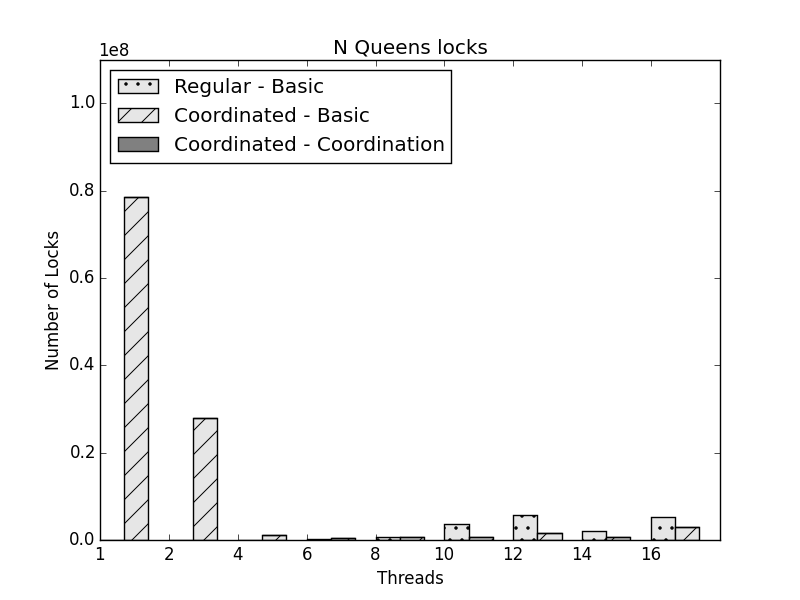
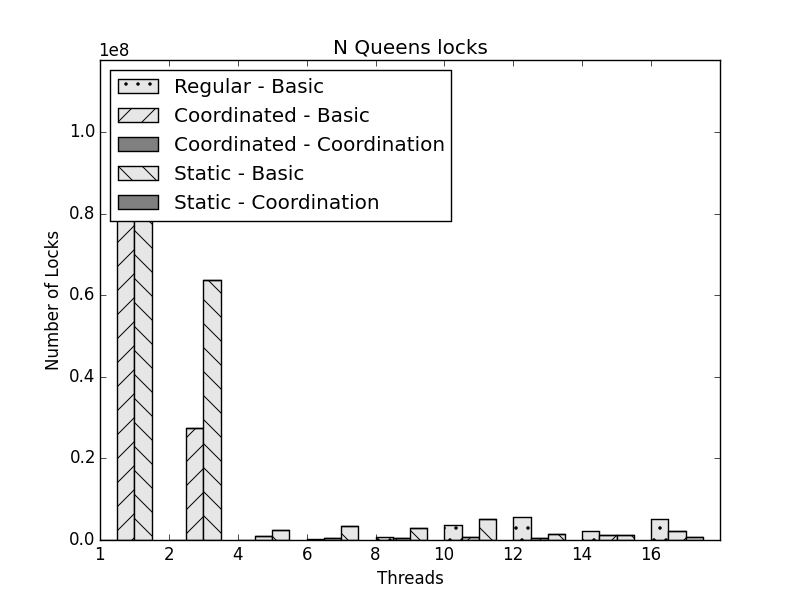
Add N Queens Static to queue table.

diff --git a/language.tex b/language.tex
@@ -16,6 +16,44 @@ Next, the rules are recursively applied and the database is updated by adding
 new facts or deleting facts used during rule derivation.
 When no more rules are applicable, the program terminates.
 
+CLM has been designed for writing programs that operate on graphs. CLM partitions
+the database by using the first argument of each fact. The first argument has
+type \emph{node} and represents a node in the graph. To achieve concurrency,
+our implementation partitions the database by the first argument, e.g.,
+the fact \texttt{f(@1, 2)} is stored in node \texttt{@1}, while
+fact \texttt{p(@2)} is stored in node \texttt{@2}. CLM restricts the body of
+every rule to facts with the same node so that nodes can derive rules
+independently. Although the body is restricted, the head of the rule may refer
+to any node as long as that node is refered to somewhere in the body. This allows
+\scare{communication} between nodes during rule derivation, since a node may
+\scare{send} a fact to another node.  Rule restrictions in turn make CLM
+implicitly parallel because nodes are able to compute independently. This makes
+CLM non-deterministic since nodes can be picked to run in any order, affecting
+which rules are applied and which facts are deleted or derived.
+
+\paragraph{SSSP Example}
+To make these ideas concrete, we present a simple
+program: the single source shortest path program~(SSSP). Later in the paper, we
+add coordination facts to improve the execution of the program.
+
+The SSSP program in Fig.~\ref{code:shortest_path_program} starts (lines 1-3)
+with the declaration of the predicates. Predicates specify the facts
+used in the program. The first predicate, \texttt{edge}, is a persistent
+predicate that describes the relationship between the nodes of the graph,
+where the third argument represents the weight of the edge (the
+\texttt{route} modifier informs the compiler that the \texttt{edge} predicate
+determines the structure of the graph).
+The predicates \texttt{shortest} and \texttt{relax} are
+specified as linear facts and thus are deleted when deriving new facts.  The
+algorithm computes the shortest distance from node
+\texttt{@1} to all other nodes in the graph. Every node has a
+\texttt{shortest} fact that is improved with new \texttt{relax} facts.  Lines
+5-9 declare the axioms of the program: \texttt{edge} facts describe the
+graph; \texttt{shortest(A, +00, [])} is the initial shortest distance
+(infinity) for all nodes; and \texttt{relax(@1, 0, [@1])} starts the
+algorithm by setting the initial distance from \texttt{@1} to \texttt{@1} to be
+0.
+
 \begin{topfig}
 \scriptsize\begin{Verbatim}[numbers=left]
 type route edge(node, node, int).
@@ -54,42 +92,6 @@ shortest(A, D1, P1), D1 <= D2, relax(A, D2, P2)
    have been computed.}
 \end{dblfig}
 
-CLM has been designed for writing programs that operate on graphs. CLM partitions
-the database by using the first argument of each fact. The first argument has
-type \emph{node} and represents a node in the graph. To achieve concurrency,
-our implementation partitions the database by the first argument, e.g.,
-the fact \texttt{f(@1, 2)} is stored in node \texttt{@1}, while
-fact \texttt{p(@2)} is stored in node \texttt{@2}. CLM restricts the body of
-every rule to facts with the same node so that nodes can derive rules
-independently. Although the body is restricted, the head of the rule may refer
-to any node as long as that node is refered to somewhere in the body. This allows
-\scare{communication} between nodes during rule derivation, since a node may
-\scare{send} a fact to another node.  Rule restrictions in turn make CLM
-implicitly parallel because nodes are able to compute independently. This makes
-CLM non-deterministic since nodes can be picked to run in any order, affecting
-which rules are applied and which facts are deleted or derived.
-
-To make these ideas concrete, we present a simple
-program: the single source shortest path program~(SSSP). Later in the paper, we
-add coordination facts to improve the execution of the program.
-
-The SSSP program in Fig.~\ref{code:shortest_path_program} starts (lines 1-3)
-with the declaration of the predicates. Predicates specify the facts
-used in the program. The first predicate, \texttt{edge}, is a persistent
-predicate that describes the relationship between the nodes of the graph,
-where the third argument represents the weight of the edge (the
-\texttt{route} modifier informs the compiler that the \texttt{edge} predicate
-determines the structure of the graph).
-The predicates \texttt{shortest} and \texttt{relax} are
-specified as linear facts and thus are deleted when deriving new facts.  The
-algorithm computes the shortest distance from node
-\texttt{@1} to all other nodes in the graph. Every node has a
-\texttt{shortest} fact that is improved with new \texttt{relax} facts.  Lines
-5-9 declare the axioms of the program: \texttt{edge} facts describe the
-graph; \texttt{shortest(A, +00, [])} is the initial shortest distance
-(infinity) for all nodes; and \texttt{relax(@1, 0, [@1])} starts the
-algorithm by setting the initial distance from \texttt{@1} to \texttt{@1} to be
-0.
 
 The first rule of the program (lines 11-14) reads as following: if the current
 \texttt{shortest} path \texttt{P1} with distance \texttt{D1} is larger

diff --git a/locks.tex b/locks.tex
@@ -116,7 +116,9 @@ MiniMax - Regular & 16M & 19M & 19M & 19M & 20M \\ \hline
 MiniMax - Coordinated & 51M & 51M & 51M & 51M & 52M \\ \hline
 \hline
 N Queens - Regular & 8K & 15K & 16K & 17K & 20K \\ \hline
-N Queens - Coordinated & 57M & 18M & 676K & 125K & 41K \\ \hline
+N Queens - Coordinated & 57M & 24M & 675K & 145K & 46K \\ \hline
+N Queens - Static & 57M & 44M & 1M & 1M & 151K \\ \hline
+\hline
 \end{tabular}
 \scap{queue_instructions}{Number of queue \scare{instructions} per program. An
    operation to a regular queue counts as 1 instruction, while an operation to

diff --git a/results/locks/queue_operations.py b/results/locks/queue_operations.py
@@ -22,6 +22,7 @@ minmax_reg = read_experiment("minmax-reg.txt")
 minmax_coord = read_experiment("minmax-coord.txt")
 nqueens_reg = read_experiment("nqueens-reg.txt")
 nqueens_coord = read_experiment("nqueens-coord.txt")
+nqueens_static = read_experiment("nqueens-static.txt")
 
 def translate(num):
    if num > 1000000:
@@ -58,3 +59,4 @@ print "\hline"
 
 show(nqueens_reg, "N Queens - Regular")
 show(nqueens_coord, "N Queens - Coordinated")
+show(nqueens_static, "N Queens - Static")
